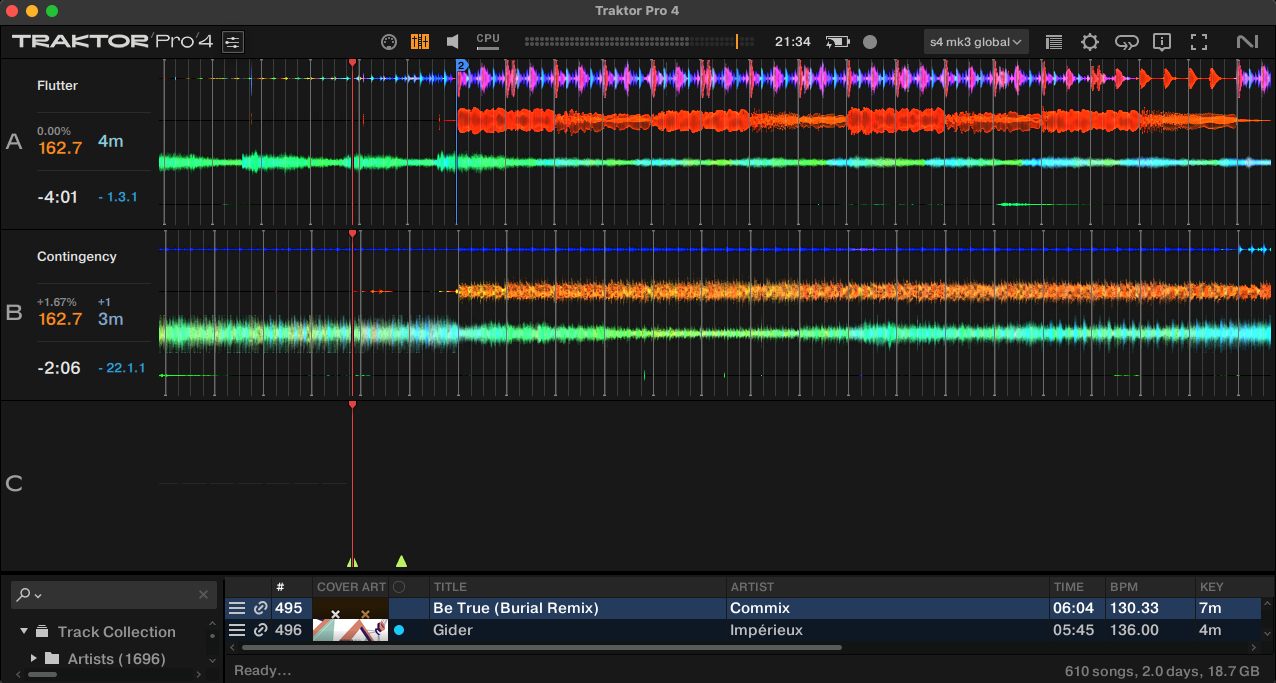
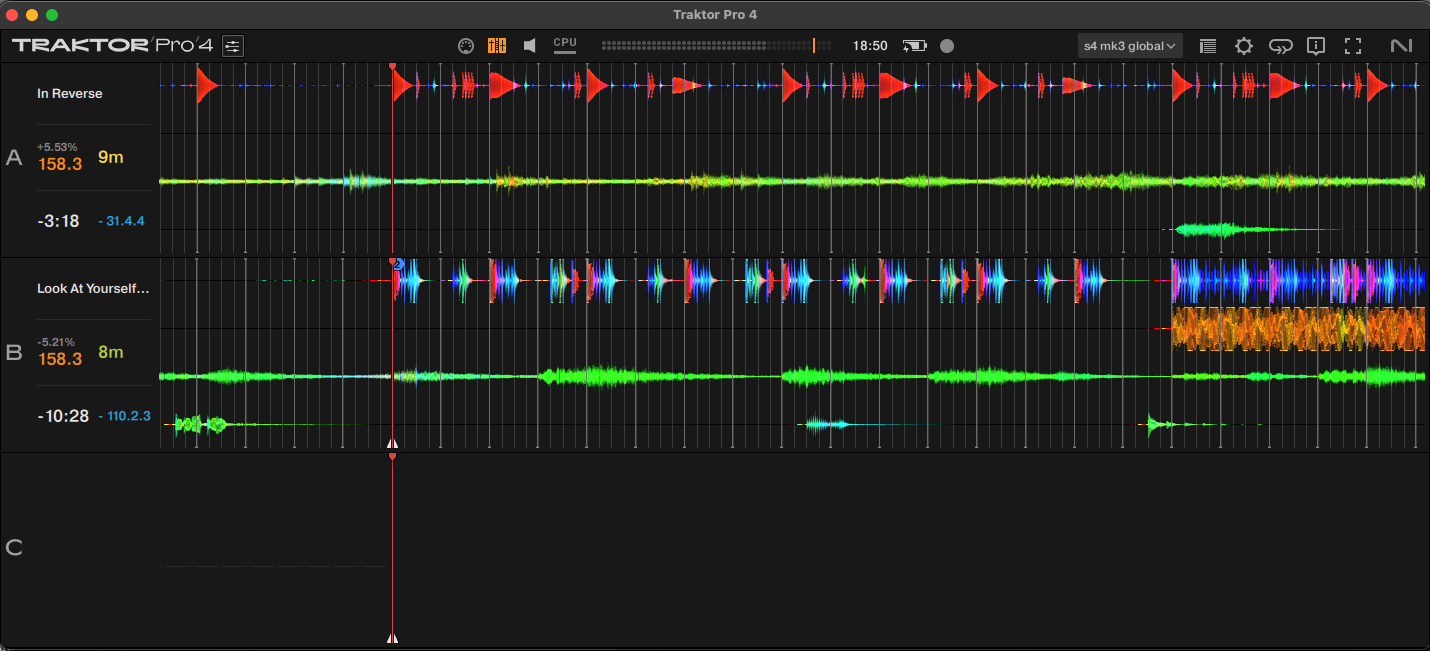
README: new screenshots
The lanes filling the window with Hide Browser on, and the settings window.

diff --git a/README.md b/README.md
@@ -15,7 +15,7 @@ Traktor's parallel waveforms taking the whole screen:
 - **A settings window**, opened from a button in Traktor's header, next to
   the logo.
 
-![Three lanes with no track decks: two Stem tracks, each with its left panel (title, BPM and pitch, key, remaining time, beats to the next cue)](docs/lanes.png)
+![Three lanes filling the window, with no decks or browser: two Stem tracks, each with its left panel (title, BPM and pitch, key, remaining time, beats to the next cue)](docs/lanes.png)
 
 Everything is applied to a **copy** of Traktor. The original installation is
 never touched.
